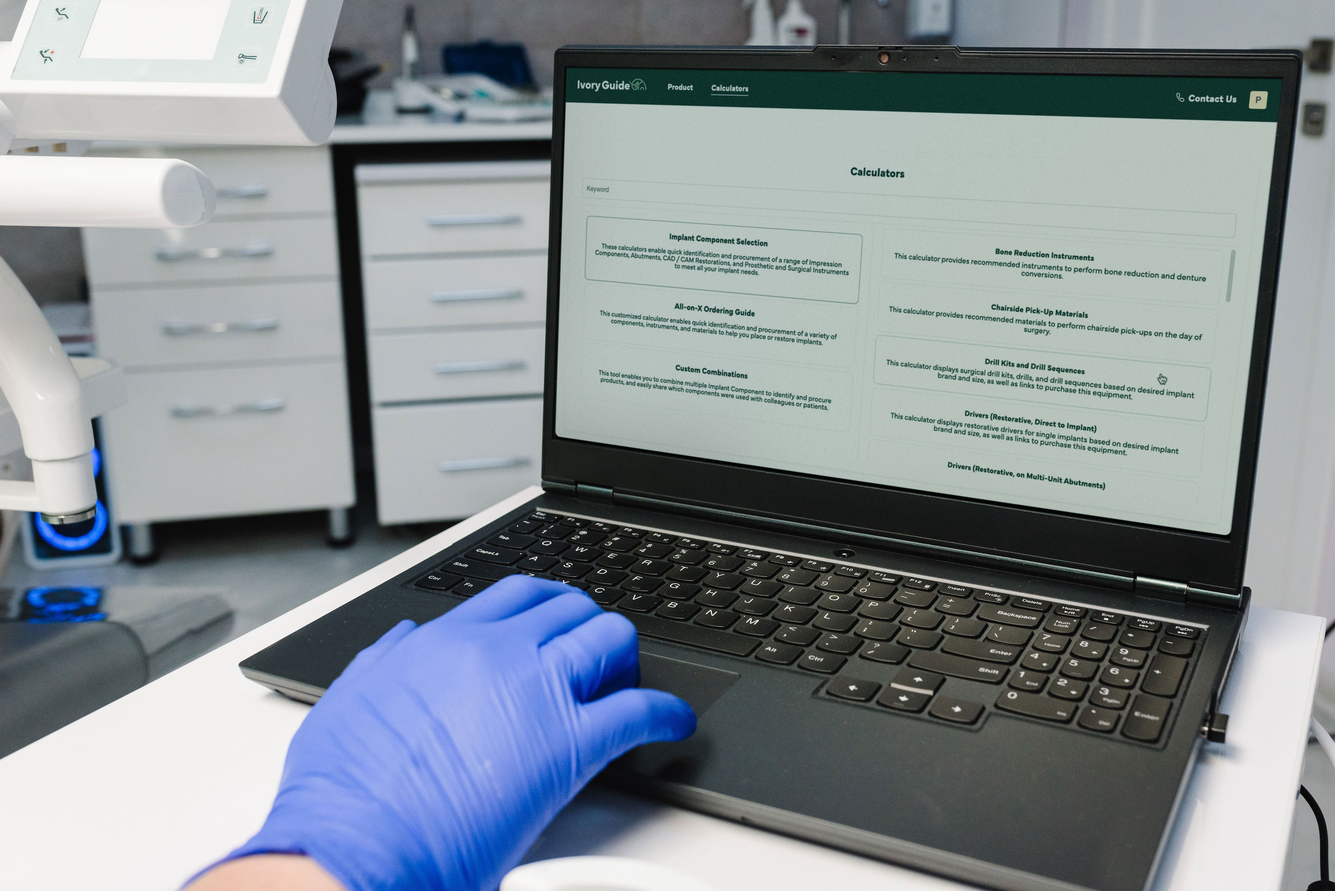
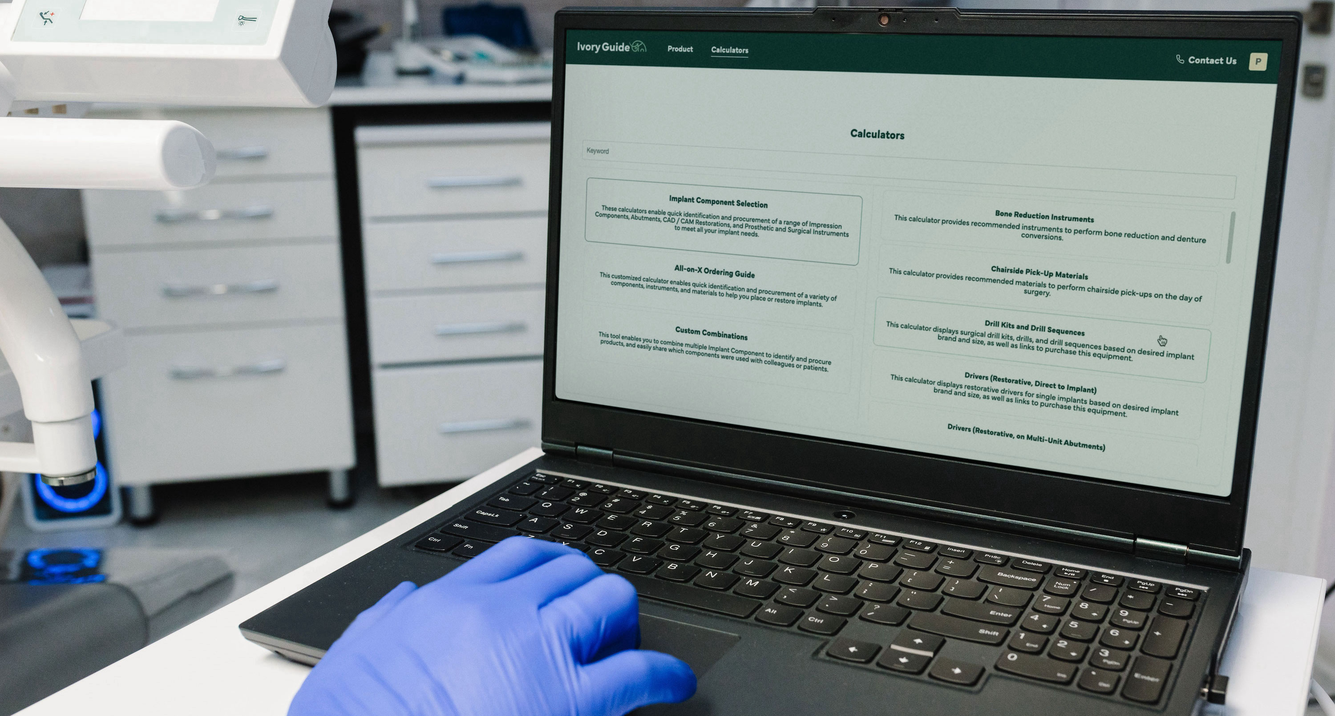
update home page image

diff --git a/src/components/public/shared/HeroSection/index.tsx b/src/components/public/shared/HeroSection/index.tsx
@@ -25,6 +25,7 @@ interface HeroSectionProps {
     height?: string;
     offset?: boolean;
     hideOnMobile?: boolean;
+    showBorder?: boolean;
   };
 }
 
@@ -101,18 +102,27 @@ export const HeroSection: React.FC<HeroSectionProps> = ({
 
         <div className="col-12 md:col-6 md:flex">
           <div
-            className={cx("md:pr-6", {
+            className={cx("relative md:mr-6", {
               "hero-image-container": imageAttr.offset,
-              "md:flex align-items-center justify-content-center w-full pt-4":
+              "md:flex align-items-center justify-content-center w-full mt-4":
                 !imageAttr.offset,
               hidden: imageAttr.hideOnMobile,
             })}
           >
-            <Image
-              src={imageAttr.src}
-              width={imageAttr.width}
-              alt="hero-image"
-            />
+            <div className="relative">
+              {image.showBorder && (
+                <div
+                  className="absolute w-full h-full border-2 -ml-3 -mt-3 z-0"
+                  style={{ borderColor: "var(--primary-color)" }}
+                />
+              )}
+              <Image
+                src={imageAttr.src}
+                width={imageAttr.width}
+                alt="hero-image"
+                className="relative z-1"
+              />
+            </div>
           </div>
         </div>
       </div>

diff --git a/src/components/public/product/ProductContentSection.tsx b/src/components/public/product/ProductContentSection.tsx
@@ -94,7 +94,7 @@ export const ProductContentSection = () => {
             <div className="xl:col-3"></div>
             <div className="col-12 xl:col">
               <ScrollCard
-                description="Allow users to save, export and email result summaries"
+                description="Allows users to save, export and email result summaries"
                 rtl
               />
             </div>

diff --git a/src/components/public/shared/HeroSection/HeroSection.module.scss b/src/components/public/shared/HeroSection/HeroSection.module.scss
@@ -1,12 +1,16 @@
 .hero-container {
   padding: 5rem 0;
   box-sizing: border-box;
-  height: 100%;
+  height: 660px;
   background-color: var(--secondary-color);
   display: flex;
   justify-content: center;
   background: radial-gradient(circle, #31574d, #023932 300px);
   z-index: 1;
+
+  @media screen and (max-width: 768px) {
+    height: initial;
+  }
 }
 
 .hero-wrapper {

diff --git a/src/components/public/home/HomeHeroSection.tsx b/src/components/public/home/HomeHeroSection.tsx
@@ -21,7 +21,7 @@ export const HomeHeroSection = () => {
           ? { label: "Join for FREE", onClick: handleJoin }
           : undefined
       }
-      image={{ src: "/images/home/main.jpg" }}
+      image={{ src: "/images/home/main.jpg", showBorder: true }}
     />
   );
 };
